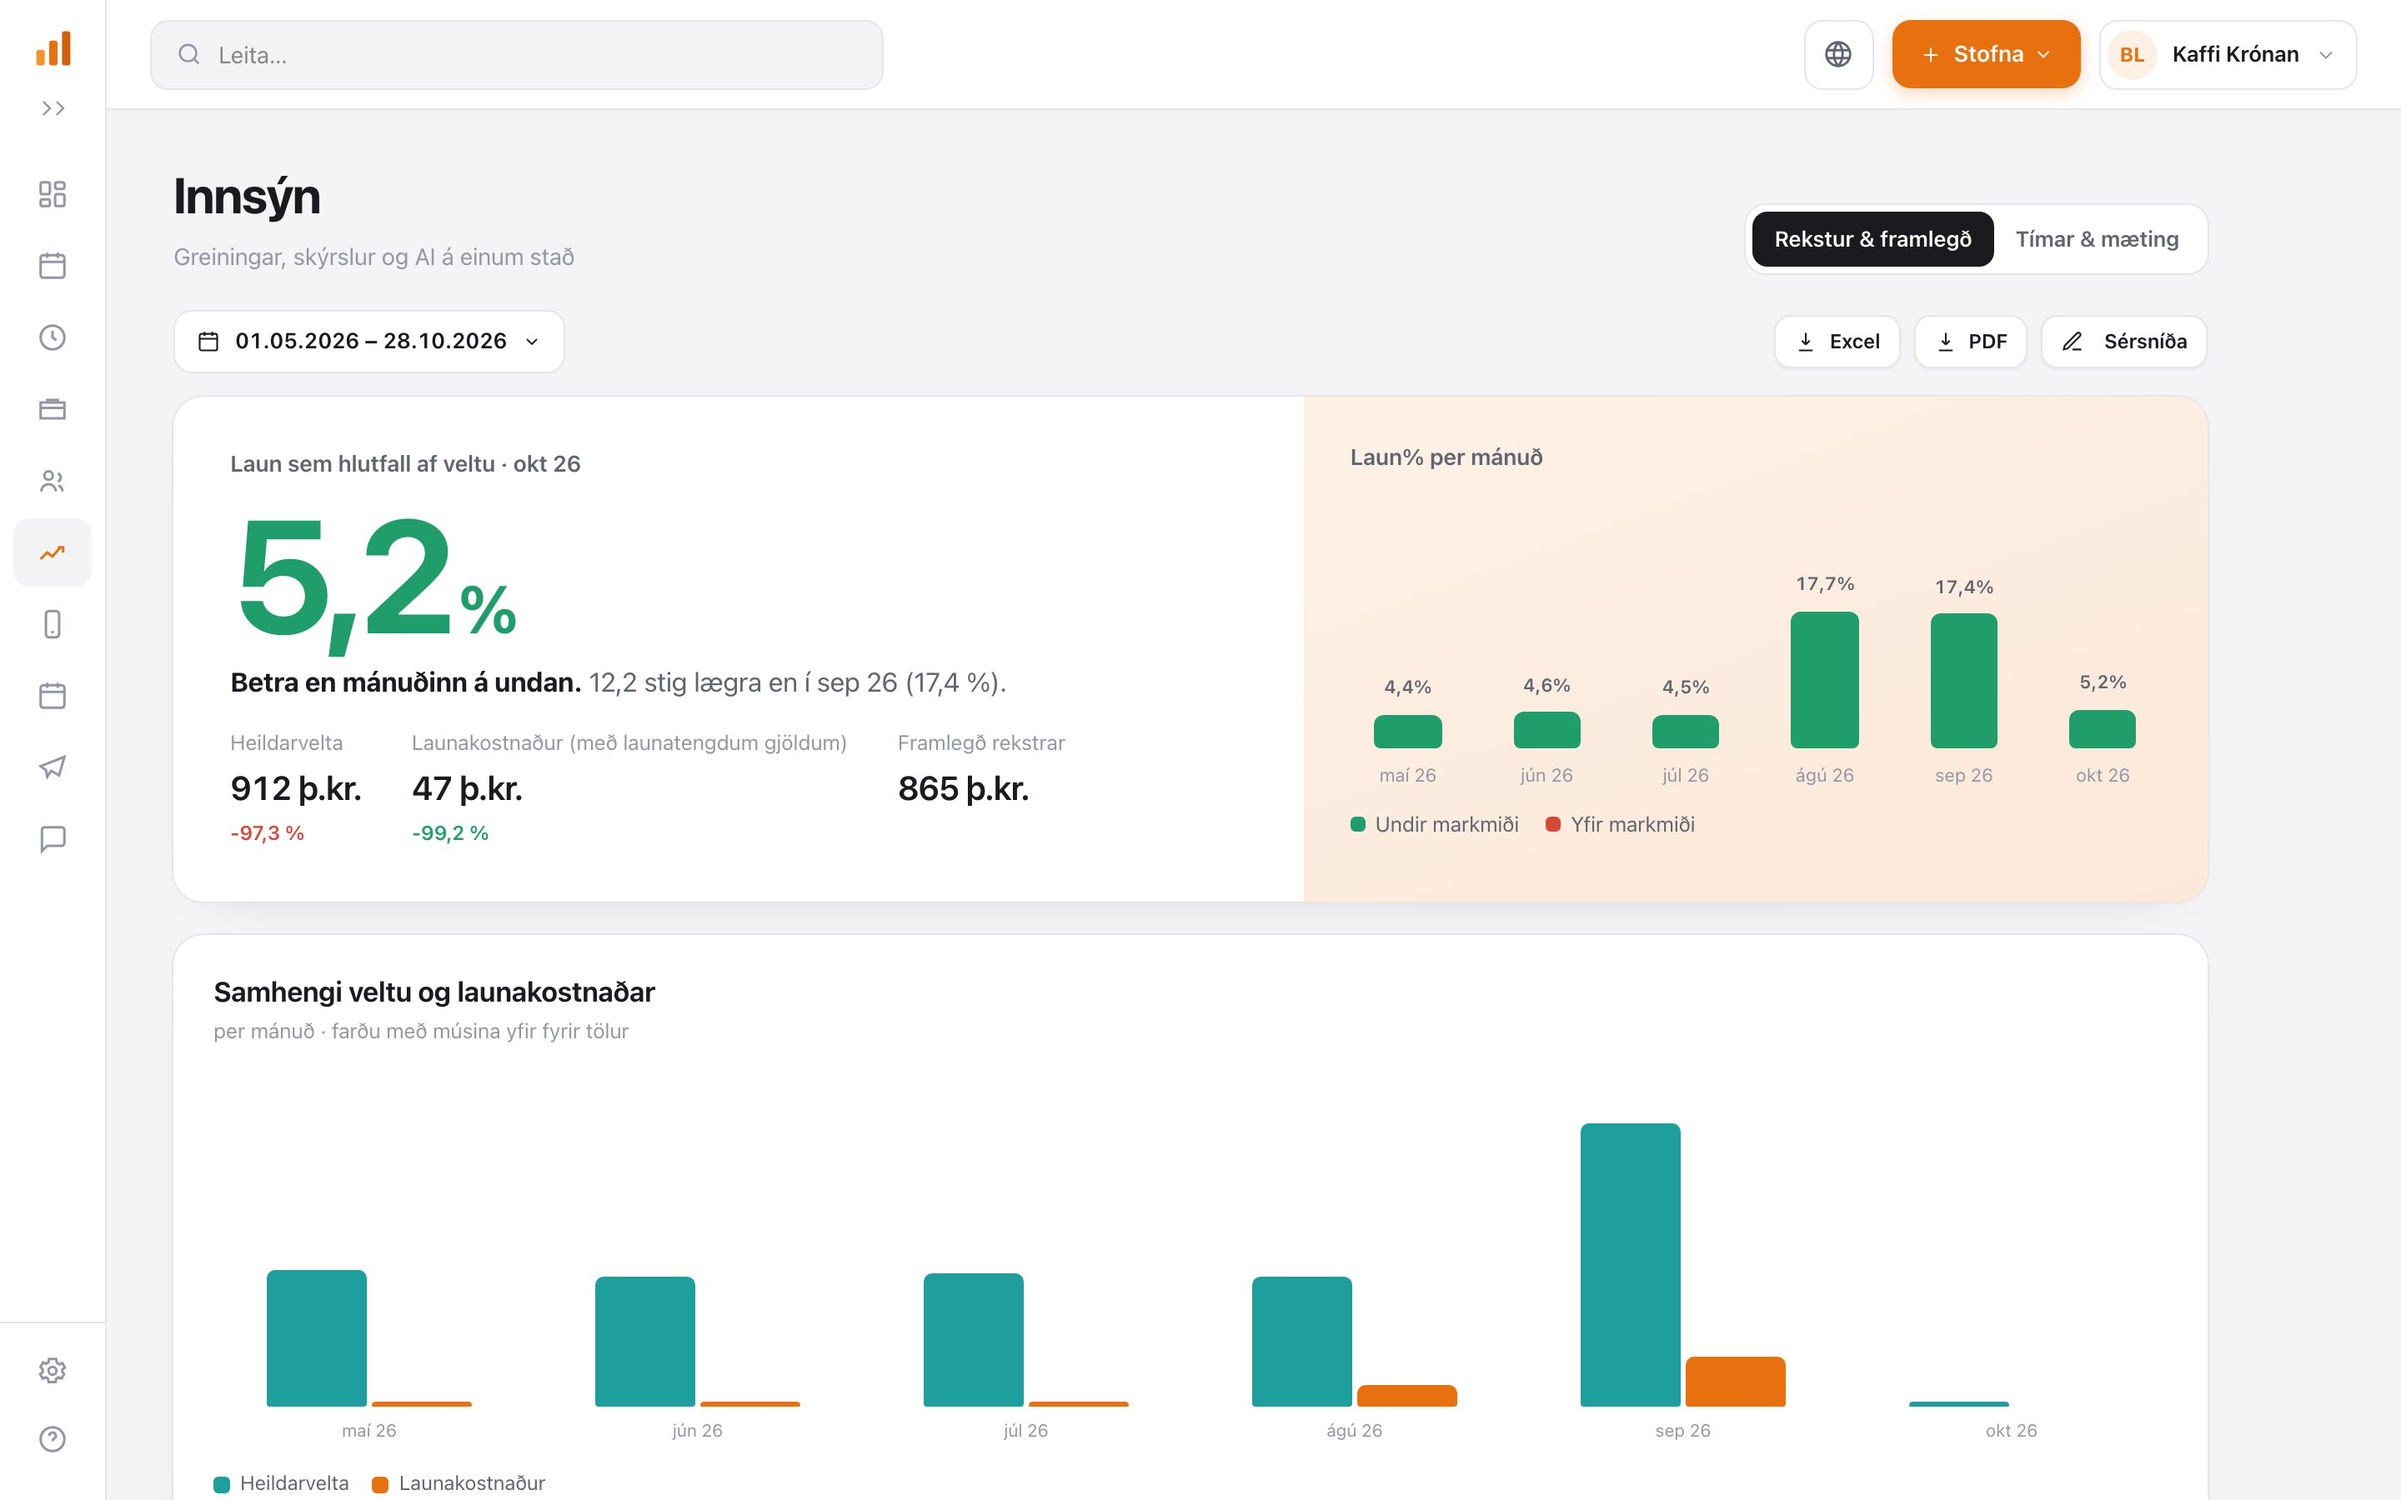
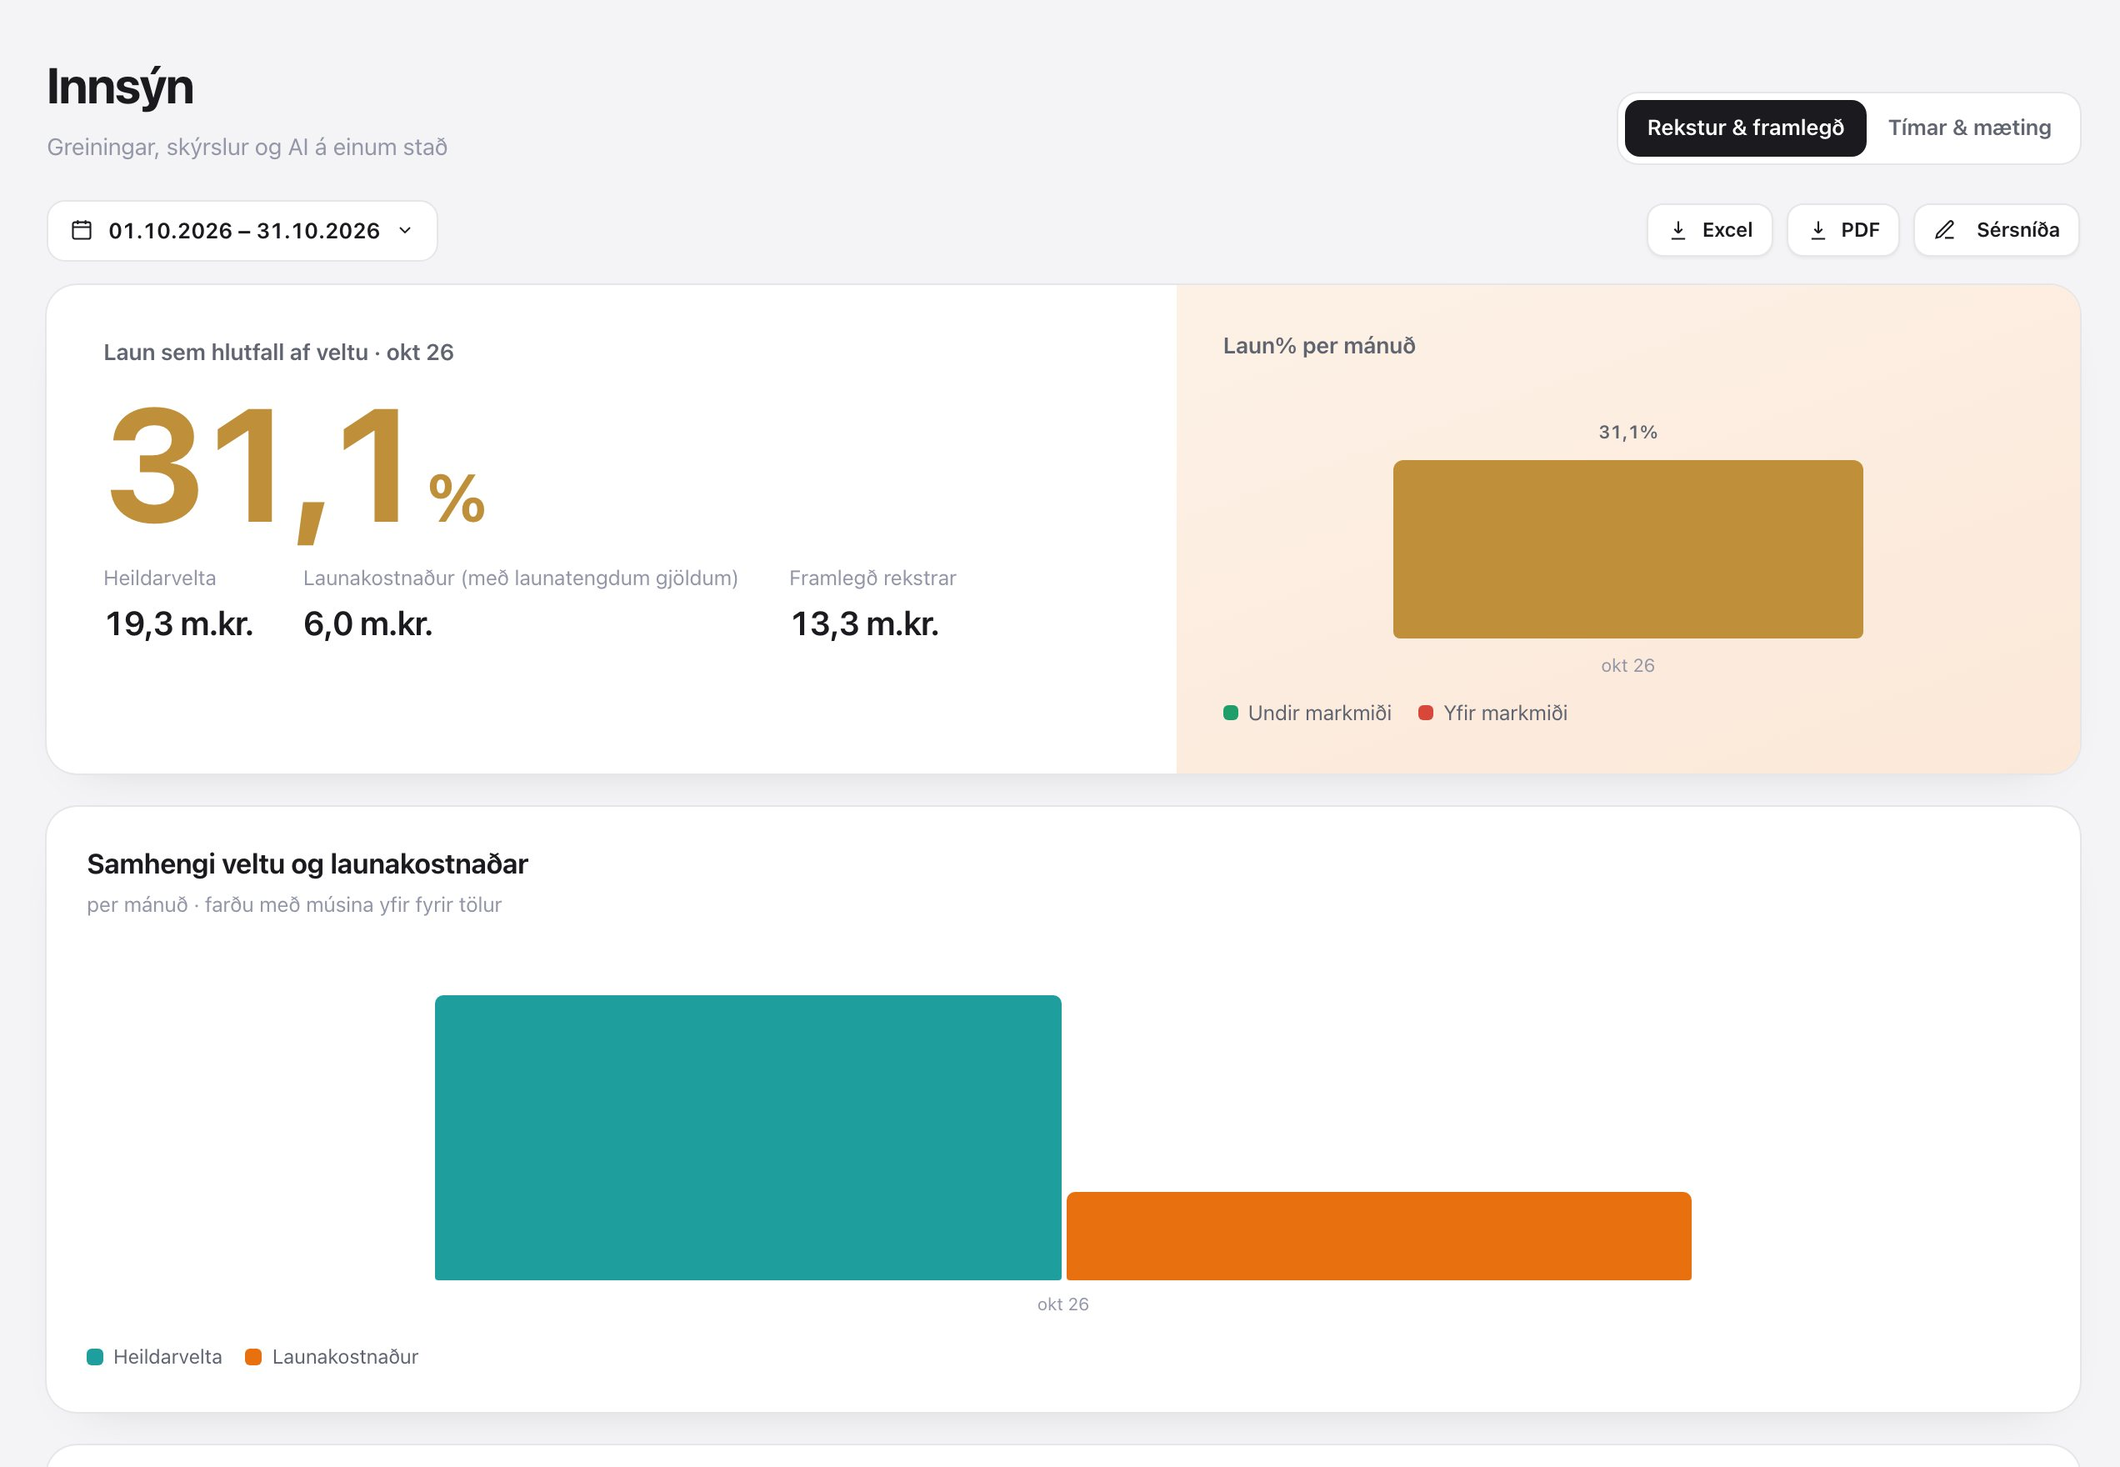
Forsíða: AI-skjámynd í Hey VAKTO, skýrsluglæra í stað VAKTO AI-glæru
- Hey VAKTO sýnir skjámynd af AI-tillögu þegar myndbandið vantar
- Fyrsta glæran í „Kynntu þér VAKTO" er nú „Skýrslur sem skipta máli."
  með nýrri Innsýn-skjámynd úr demo-fyrirtækinu (laun 31,1 %), IS og EN

Claude-Session: https://claude.ai/code/session_01AK9BbtXjnmL9DhvT1wsa4a

diff --git a/src/components/site/home-text.ts b/src/components/site/home-text.ts
@@ -28,7 +28,7 @@ const is = {
   feedAlt: "Fréttaveita í appinu",
   showH: "Kynntu þér VAKTO.", showRole: "glærusýning", slideRole: "glæra", of: "af", slideN: "Glæra", pause: "Gera hlé", play: "Spila",
   slides: [
-    { t: "VAKTO AI.", d: "Spurðu eins og þú talar: „Hvernig er laun % þessa vikuna?“ eða „Settu upp næstu viku, allir með einn frídag.“ VAKTO AI svarar með þínum tölum og setur upp heilt vaktaplan sem þú ferð yfir og samþykkir. Ekkert breytist fyrr en þú staðfestir. Hann les líka kjarasamninginn með tilvísun í hverja grein.", alt: "Tillaga VAKTO AI: Moon færður á kvöldvakt á laugardag, launakostnaður óbreyttur 27,4%" },
+    { t: "Skýrslur sem skipta máli.", d: "Laun % af veltu per mánuð, kostnaður per deild, yfirvinna, veikindi og mæting. Sæktu í Excel eða PDF, eða biddu VAKTO AI um skýrsluna.", alt: "Innsýn í VAKTO: laun 31,1 % af veltu í október, velta 19,3 m.kr. og launakostnaður 6,0 m.kr." },
     { t: "Vaktirnar í vasanum.", d: "Starfsfólk sér planið sitt, sækir um lausar vaktir og býður vaktir í skiptum. Spjallið er á sama stað.", alt: "Vaktir vikunnar í appinu", alt2: "Spjallrásir í appinu" },
     { t: "Fréttaveita fyrir vinnustaðinn.", d: "Nýr matseðill, breyttur opnunartími, mynd úr eldhúsinu. Festu það mikilvæga efst svo það týnist ekki.", alt: "Fréttaveitan í appinu" },
     { t: "Launaseðill sem stenst.", d: "Dagvinna, álag og yfirvinna sundurliðuð. Líka þegar mánuðurinn var 0 tímar og starfsmaðurinn þarf staðfestingu.", alt: "Launaseðill úr VAKTO" },
@@ -56,6 +56,7 @@ const is = {
     confirmB: "Ekkert breytist án þín.", confirm: " VAKTO AI spyr alltaf áður en hann breytir nokkru. Þú sérð tillöguna og ýtir á Staðfesta.",
     who: "Fyrir stjórnendur og vaktstjóra. 25 spurningar á mánuði innifaldar.",
     videoAlt: "Myndband: VAKTO AI setur upp vaktaplan fyrir eldhúsið og stjórnandinn staðfestir tillöguna.",
+    shotAlt: "Tillaga VAKTO AI: Moon færður á kvöldvakt á laugardag, launakostnaður óbreyttur 27,4%",
   },
   // „Fáðu kynningu á vinnustaðinn“ — beiðni fer í tölvupósti (/api/kynning).
   visit: {
@@ -104,7 +105,7 @@ const en: typeof is = {
   feedAlt: "News feed in the app",
   showH: "Get to know VAKTO.", showRole: "slideshow", slideRole: "slide", of: "of", slideN: "Slide", pause: "Pause", play: "Play",
   slides: [
-    { t: "VAKTO AI.", d: "Ask the way you talk: “What's labor % this week?” or “Plan next week, everyone gets one day off.” VAKTO AI answers with your own numbers and builds a full schedule for you to review and approve. Nothing changes until you confirm. It also reads the union agreement with a reference to every clause.", alt: "VAKTO AI suggestion: Moon moved to Saturday's evening shift, labor cost unchanged at 27.4%" },
+    { t: "Reports that matter.", d: "Labor % of revenue per month, cost per department, overtime, sick leave and attendance. Download as Excel or PDF, or ask VAKTO AI for the report.", alt: "Insights in VAKTO: labor at 31.1% of revenue in October, revenue ISK 19.3m and labor cost ISK 6.0m" },
     { t: "Shifts in your pocket.", d: "Staff see their schedule, apply for open shifts and offer shifts to swap. The chat is right there too.", alt: "This week's shifts in the app", alt2: "Chat channels in the app" },
     { t: "A news feed for the workplace.", d: "A new menu, changed opening hours, a photo from the kitchen. Pin what matters so it doesn't get lost.", alt: "The news feed in the app" },
     { t: "A payslip that holds up.", d: "Day rate, premiums and overtime itemised. Even when the month was zero hours and the employee needs proof.", alt: "Payslip from VAKTO" },
@@ -131,6 +132,7 @@ const en: typeof is = {
     confirmB: "Nothing changes without you.", confirm: " VAKTO AI always asks before it changes anything. You see the proposal and press Confirm.",
     who: "For owners and shift managers. 25 questions a month included.",
     videoAlt: "Video: VAKTO AI builds a schedule for the kitchen and the manager confirms the proposal.",
+    shotAlt: "VAKTO AI suggestion: Moon moved to Saturday's evening shift, labor cost unchanged at 27.4%",
   },
   visit: {
     h: "Get a presentation at your workplace.", p: "We come to you and present VAKTO to your managers and staff. Free, no commitment.",

diff --git a/src/components/site/home-ai.tsx b/src/components/site/home-ai.tsx
@@ -2,22 +2,24 @@
 
 // Forsíða: „Hey VAKTO" (dæmi um hvað VAKTO AI gerir í raun — sjá assistant-tools.ts) og
 // „Fáðu kynningu á vinnustaðinn" (beiðni í tölvupósti, /api/kynning).
-// Myndbandið (public/showcase/forsida/video/ai[-en].mp4, scripts/video-forsida-ai.mjs) birtist aðeins ef skráin er til.
+// Myndbandið (public/showcase/forsida/video/ai[-en].mp4, scripts/video-forsida-ai.mjs) birtist ef skráin er til;
+// annars skjámynd af AI-tillögu (light/ai.jpg, scripts/shots-forsida-ai.mjs).
 
 import { useEffect, useRef, useState, type FormEvent } from "react";
 import Turnstile, { TURNSTILE_SITE_KEY } from "@/components/turnstile";
 import { useSiteLang } from "./lang";
 import { HOME_TEXT } from "./home-text";
 
-const VIDEO = "/showcase/forsida/video";
+const SHOT = "/showcase/forsida";
+const VIDEO = `${SHOT}/video`;
 
 function Spark() {
   // Sama neistatákn og VAKTO AI-hnappurinn í kerfinu.
   return <svg className="ah-spark" viewBox="0 0 24 24" aria-hidden="true"><path d="M12 3l1.8 4.7L18.5 9l-4.7 1.8L12 15.5l-1.8-4.7L5.5 9l4.7-1.3Z" /><path d="M18.5 15l.8 2 2 .8-2 .8-.8 2-.8-2-2-.8 2-.8Z" /></svg>;
 }
 
-/** Spilar aðeins þegar skráin er til og myndbandið sést; annars er kaflinn bara dæmin. */
-function AiVideo({ alt }: { alt: string }) {
+/** Spilar aðeins þegar skráin er til og myndbandið sést; annars skjámynd af tillögu VAKTO AI. */
+function AiVideo({ alt, shotAlt }: { alt: string; shotAlt: string }) {
   const lang = useSiteLang();
   const src = `${VIDEO}/ai${lang === "en" ? "-en" : ""}`;
   const [found, setFound] = useState<string | null>(null); // slóðin sem reyndist til
@@ -35,7 +37,12 @@ function AiVideo({ alt }: { alt: string }) {
     io.observe(el);
     return () => io.disconnect();
   }, [ok]);
-  if (!ok) return null;
+  if (!ok) return (
+    <div className="ah-hey-shot">
+      {/* eslint-disable-next-line @next/next/no-img-element */}
+      <img src={`${SHOT}${lang === "en" ? "/en" : ""}/light/ai.jpg`} alt={shotAlt} width={1209} height={1656} loading="lazy" decoding="async" draggable={false} />
+    </div>
+  );
   return (
     <div className="ah-hey-vid">
       <div className="ah-mac">
@@ -57,7 +64,7 @@ export function HeyVakto() {
         <h2>{t.h}</h2>
         <p className="ah-lede">{t.lede}</p>
       </div>
-      <AiVideo alt={t.videoAlt} />
+      <AiVideo alt={t.videoAlt} shotAlt={t.shotAlt} />
       <div className="ah-hey-grid">
         {t.groups.map((g) => (
           <div className="ah-hey-col" key={g.h}>

diff --git a/src/components/site/home.css b/src/components/site/home.css
@@ -306,6 +306,8 @@
 .ah-slide-v{flex:1;min-height:0;display:flex;justify-content:center;align-items:flex-start;margin-top:40px}
 .ah-sl-shot img,.ah-sl-paper img{width:min(430px,86%);margin:0 auto;border-radius:16px 16px 0 0;box-shadow:0 0 0 1px rgba(0,0,0,.06),0 30px 70px -20px rgba(40,25,10,.35)}
 .ah-sl-paper img{border-radius:6px 6px 0 0;width:min(460px,88%)}
+.ah-sl-wide{width:100%;display:flex;justify-content:center}
+.ah-sl-wide img{width:min(880px,94%);border-radius:16px 16px 0 0;box-shadow:0 0 0 1px rgba(0,0,0,.06),0 30px 70px -20px rgba(40,25,10,.35)}
 .ah-sl-phones{display:flex;gap:32px;justify-content:center;align-items:flex-start}
 .ah-sl-phones .ah-phone{width:min(250px,60vw);margin:0}
 .ah-sl-phones .ah-sl-lo{margin-top:70px}
@@ -520,6 +522,8 @@ img.ah-pass-av{object-fit:cover;border:2px solid rgba(255,255,255,.55);padding:0
   .ah-slide-v{margin-top:24px}
   .ah-sl-phones .ah-phone{width:min(200px,52vw)}
   .ah-sl-shot img,.ah-sl-paper img{width:min(320px,80%)}
+  .ah-sl-wide{justify-content:flex-start;overflow:hidden;border-radius:14px 14px 0 0}
+  .ah-sl-wide img{width:175%;max-width:none;border-radius:0;box-shadow:none}
   .ah-dark-row>div:last-child{display:none}
 }
 
@@ -539,6 +543,9 @@ img.ah-pass-av{object-fit:cover;border:2px solid rgba(255,255,255,.55);padding:0
 .ah-spark{width:18px;height:18px;fill:var(--brand);flex:none}
 .ah-hey-vid{max-width:920px;margin:0 auto 56px}
 .ah-hey-vid video{display:block;width:100%;height:100%;object-fit:cover;object-position:top left}
+/* Engin myndbandsskrá: skjámynd af AI-tillögunni í sama ramma og glærurnar */
+.ah-hey-shot{max-width:560px;margin:0 auto 56px}
+.ah-hey-shot img{display:block;width:100%;height:auto;max-height:820px;object-fit:cover;object-position:top;border-radius:16px;box-shadow:0 0 0 1px rgba(0,0,0,.06),0 30px 70px -20px rgba(40,25,10,.35)}
 .ah-hey-grid{display:grid;grid-template-columns:repeat(3,1fr);gap:20px;align-items:start}
 .ah-hey-col{background:rgba(255,255,255,.82);backdrop-filter:blur(4px);border-radius:28px;padding:28px 24px;box-shadow:0 0 0 1px var(--line),0 20px 50px -30px rgba(40,25,10,.25)}
 .ah-hey-col h3{font-size:14px;font-weight:650;letter-spacing:.06em;text-transform:uppercase;color:var(--ink3);margin:0 0 18px}

diff --git a/src/components/site/home-client.tsx b/src/components/site/home-client.tsx
@@ -376,7 +376,7 @@ function slidesFor(t: ReturnType<typeof useT>, base = SHOT): Slide[] {
   const [a, b, c, d] = t.slides;
   return [
     // eslint-disable-next-line @next/next/no-img-element
-    { ...a, v: <div className="ah-sl-shot"><img src={`${base}/light/ai.jpg`} alt={a.alt} width={1209} height={1656} loading="lazy" decoding="async" draggable={false} /></div> },
+    { ...a, v: <div className="ah-sl-wide"><img src={`${base}/light/innsyn.jpg`} alt={a.alt} width={2544} height={1760} loading="lazy" decoding="async" draggable={false} /></div> },
     { ...b, v: <div className="ah-sl-phones"><Phone src={`${base}/light/app-vaktir.png`} alt={b.alt} /><Phone src={`${base}/light/app-spjall.png`} alt={b.alt2 ?? ""} className="ah-sl-lo" /></div> },
     { ...c, v: <div className="ah-sl-phones"><Phone src={`${base}/light/app-frettir.png`} alt={c.alt} /></div> },
     // eslint-disable-next-line @next/next/no-img-element
